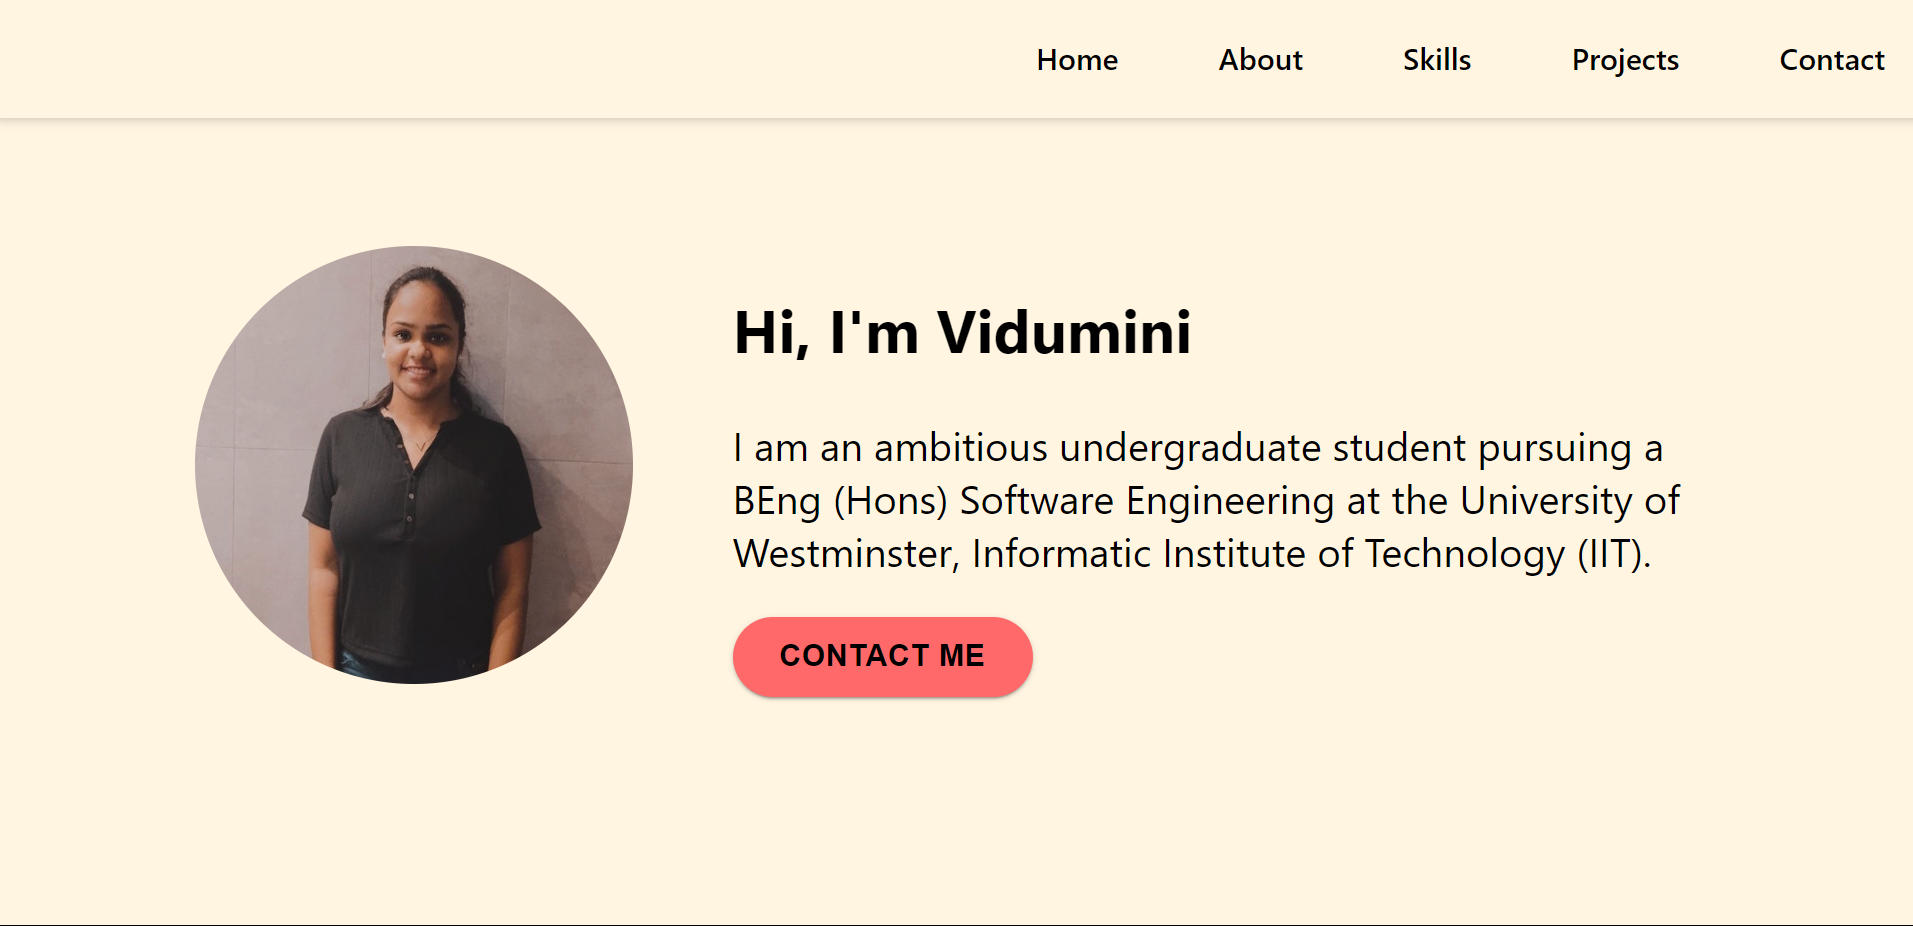
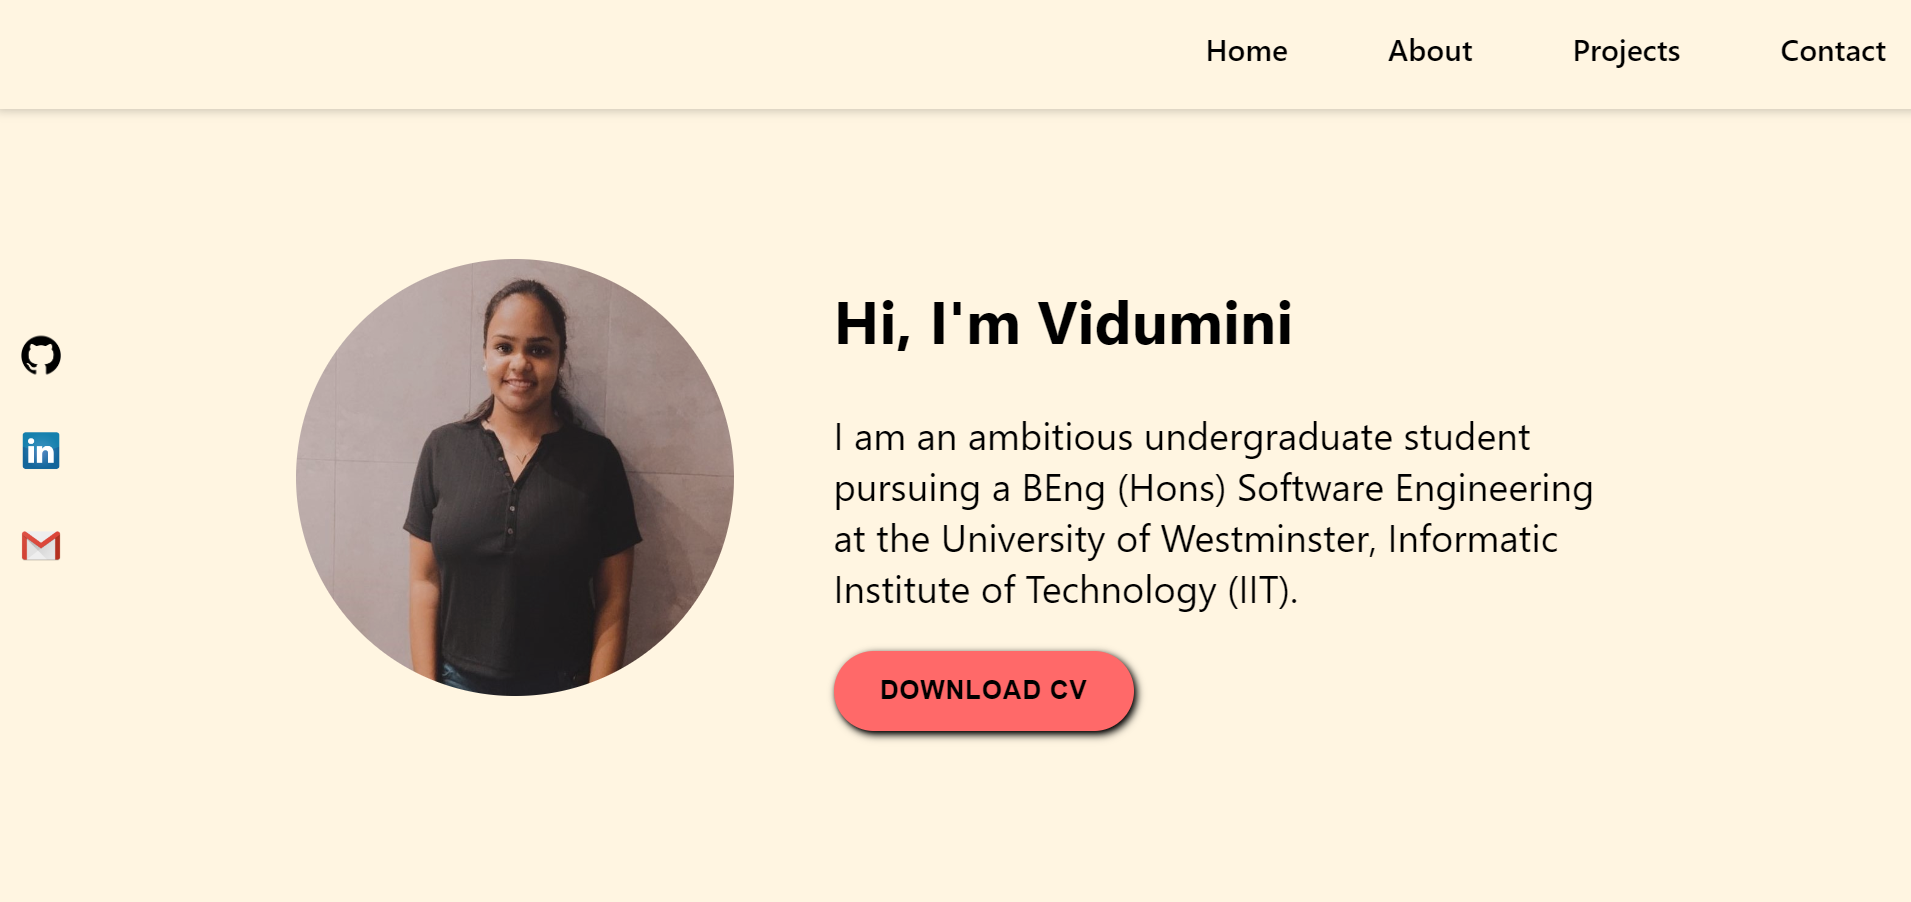
Page changes

diff --git a/src/components/about.js b/src/components/about.js
@@ -9,42 +9,46 @@ function About() {
     <div className="App">
       <div className="container">
         <div className="details">
-          <h1 id="topic">About Me</h1>
-          <div className="container-2">
-            <div className="info-1">
-              <InterestsSharpIcon style={{ fontSize: "3rem" }} />
-              <h1>Eager to Apply Expertise in Practical Projects</h1>
+          <h1 id="topic" style={{ marginBottom: "1.5rem", color: "#55AD9B" }}>
+            About Me
+          </h1>
+          <div className="about-details">
+            <div className="container-2">
+              <div className="info-1">
+                <InterestsSharpIcon style={{ fontSize: "3rem" }} />
+                <h1>Eager to Apply Expertise in Practical Projects</h1>
+              </div>
+              <div className="text">
+                <p>
+                  An ambitious undergraduate software engineering student with a
+                  strong passion in software development and programming eager
+                  to apply their expertise in practical projects.
+                </p>
+              </div>
             </div>
-            <div className="text">
-              <p>
-                An ambitious undergraduate software engineering student with a
-                strong passion in software development and programming eager to
-                apply their expertise in practical projects.
-              </p>
+            <div className="container-2">
+              <div className="info-1">
+                <LanguageSharpIcon style={{ fontSize: "3rem" }} />
+                <h1>Fluent in Multiple Programming Languages</h1>
+              </div>
+              <div className="text">
+                <p>
+                  Gained fluency in HTML, CSS, JS, Python, Java, SQL, React
+                  Native and React JS through projects.
+                </p>
+              </div>
             </div>
-          </div>
-          <div className="container-3">
-            <div className="info-1">
-              <LanguageSharpIcon style={{ fontSize: "3rem" }} />
-              <h1>Fluent in Multiple Programming Languages</h1>
-            </div>
-            <div className="text">
-              <p>
-                Gained fluency in HTML, CSS, JS, Python, Java, SQL, React Native
-                and React JS through projects.
-              </p>
-            </div>
-          </div>
-          <div className="container-4">
-            <div className="info-1">
-              <GroupsSharpIcon style={{ fontSize: "3rem" }} />
-              <h1>Team-Oriented and Challenge-Driven</h1>
-            </div>
-            <div className="text">
-              <p>
-                Enjoys working in groups, seeking challenges and is dedicated to
-                becoming the best software engineer.
-              </p>
+            <div className="container-2">
+              <div className="info-1">
+                <GroupsSharpIcon style={{ fontSize: "3rem" }} />
+                <h1>Team-Oriented and Challenge-Driven</h1>
+              </div>
+              <div className="text">
+                <p>
+                  Enjoys working in groups, seeking challenges and is dedicated
+                  to becoming the best software engineer.
+                </p>
+              </div>
             </div>
           </div>
         </div>

diff --git a/src/components/skills.css b/src/components/skills.css
@@ -1,6 +1,6 @@
 .container-skills {
   flex: 1;
-  margin: 2.5rem 10rem;
+  margin: 2rem;
   display: flex;
   align-items: center;
   justify-content: center;
@@ -15,16 +15,14 @@
   /* border-radius: 2rem; */
   width: 100%;
   padding: 1rem;
-  margin-left: 1rem;
 }
 
 .details-1 #topic {
   font-family: Arial, Helvetica, sans-serif;
   font-size: 2rem;
-  /* padding: 0.5rem; */
+  padding: 0.5px;
   /* margin-bottom: 1rem; */
-  /* margin-top: 0.5rem; */
-  margin: 1rem 45rem 1rem 0;
+  margin-top: 0;
 }
 
 .details-1 .row-1 {
@@ -45,7 +43,7 @@
 
 .details-1 .row-1 .img-container:hover {
   color: #fff;
-  background: linear-gradient(135deg, #C80036 10%, #FFF5E1);
+  background: linear-gradient(135deg, #c80036 10%, #fff5e1);
   opacity: 0.8;
   border-radius: 2rem;
   transform: scale(1.02);
@@ -77,11 +75,17 @@
   margin-left: 1.2rem;
 }
 
-.details-1 .row-1 .img-container #id-css,#id-java,#id-php {
+.details-1 .row-1 .img-container #id-css,
+#id-java {
   margin-left: 1.5rem;
 }
 
-.details-1 .row-1 .img-container #id-python, #id-figma {
+.details-1 .row-1 .img-container #id-express {
+  margin-left: 1rem;
+}
+
+.details-1 .row-1 .img-container #id-python,
+#id-figma {
   margin-left: 1rem;
 }
 
@@ -90,21 +94,21 @@
 }
 
 @media screen and (max-width: 1000px) {
-    .container-skills {
-      margin: 2rem;
-    }
-  
-    .details-1 .row-1 {
-      flex-direction: column;
-      align-items: center;
-    }
-  
-    .details-1 .row-1 .img-container {
-      margin: 1rem 0;
-    }
-  
-    .details-1 .row-1 .img-container p {
-      margin-left: 0;
-      text-align: center;
-    }
+  .container-skills {
+    margin: 2rem;
   }
+
+  .details-1 .row-1 {
+    flex-direction: column;
+    align-items: center;
+  }
+
+  .details-1 .row-1 .img-container {
+    margin: 1rem 0;
+  }
+
+  .details-1 .row-1 .img-container p {
+    margin-left: 0;
+    text-align: center;
+  }
+}

diff --git a/src/components/about.css b/src/components/about.css
@@ -7,24 +7,24 @@
 
 .container {
   flex: 1;
-  margin: 2.5rem 10rem;
+  margin: 1.5rem 10rem;
   display: flex;
   align-items: center;
   justify-content: center;
+  flex-direction: column;
 }
 
 .details {
   display: flex;
   flex-direction: column;
-  align-items: flex-start;
-  justify-content: flex-start;
+  align-items: center;
+  justify-content: center;
   flex-wrap: wrap;
-  border-radius: 2rem;
+  /* border-radius: 2rem; */
   width: 100%;
-  max-width: 80rem;
-  padding: 2rem;
-  /* margin-left: 3rem; */
-  margin: 0.1rem 0 0 3rem;
+  padding: 1rem;
+  /* margin-left: 1rem; */
+  margin: 3rem 2rem;
 }
 
 .details #topic {
@@ -53,22 +53,14 @@
   margin-top: 0;
 }
 
+.about-details{
+  margin-left: 5rem;
+}
+
 .details .container-2 {
   padding: 1rem;
   transition: transform 0.3s;
-  margin-left: 1rem;
-}
-
-.details .container-3 {
-  padding: 1rem;
-  transition: transform 0.3s;
-  margin-left: 4rem;
-}
-
-.details .container-4 {
-  padding: 1rem;
-  transition: transform 0.3s;
-  margin-left: 8rem;
+  margin: 1rem 3.5rem;
 }
 
 .details .container-2:hover {

diff --git a/src/App.js b/src/App.js
@@ -2,7 +2,7 @@ import React from 'react';
 import { BrowserRouter as Router, Route, Routes} from 'react-router-dom';
 import NavBar from './components/navbar';
 import Home from './components/home';
-import About from './components/about';
+import AboutMe from './components/aboutMe';
 import Skills from './components/skills';
 import Contact from './components/contact';
 import Projects from './components/projects';
@@ -14,7 +14,7 @@ function App() {
         <NavBar />
         <Routes>
           <Route path="/" element={<Home />} />
-          <Route path="/about" element={<About />} />
+          <Route path="/aboutme" element={<AboutMe />} />
           <Route path="/skills" element={<Skills />} />
           <Route path="/contact" element={<Contact />} />
           <Route path="/projects" element={<Projects />} />

diff --git a/src/components/skills.js b/src/components/skills.js
@@ -17,7 +17,7 @@ function Skills() {
     <div className="App">
       <div className="container-skills">
         <div className="details-1">
-          <h1 id="topic">Technical Skills</h1>
+          <h1 id="topic" style={{color: "#55AD9B" }}>Technical Skills</h1>
           <div className="row-1">
             <div className="img-container">
               <img src={html} alt="HTML" className="img-1"></img>

diff --git a/src/components/navbar.js b/src/components/navbar.js
@@ -17,8 +17,7 @@ function NavBar() {
         </div> */}
         <nav className={`navbar ${menuOpen ? "show" : ""}`}>
           <Link to="/">Home</Link>
-          <Link to="/about">About</Link>
-          <Link to="/skills">Skills</Link>
+          <Link to="/aboutme">About</Link>
           <Link to="/projects">Projects</Link>
           <Link to="/contact">Contact</Link>
         </nav>

diff --git a/src/components/aboutMe.js b/src/components/aboutMe.js
@@ -1,0 +1,19 @@
+import React from "react";
+import "./about.css";
+import "./skills.css";
+import About from "./about";
+import Skills from "./skills";
+
+function AboutMe() {
+  return (
+    <div>
+      <div className="tab-content">
+        <About />
+        <br/>
+        <Skills />
+      </div>
+    </div>
+  );
+}
+
+export default AboutMe;

diff --git a/src/components/navbar.css b/src/components/navbar.css
@@ -20,7 +20,7 @@ body, html {
   display: flex;
   align-items: center;
   justify-content: space-between;
-  /* box-shadow: 0 1.6px 8px rgba(0, 0, 0, 0.2); */
+  box-shadow: 0 1.6px 8px rgba(0, 0, 0, 0.2);
   z-index: 1000;
   width: 100%;
 }

diff --git a/src/components/home.css b/src/components/home.css
@@ -53,6 +53,7 @@ body, html {
 .text .button {
   background-color: #FF6969;
   color: black;
+  filter: drop-shadow(3px 3px 3px black);
   height: 4rem;
   width: 15rem;
   border-radius: 4rem;

diff --git a/src/components/aboutMe.css b/src/components/aboutMe.css
@@ -1,0 +1,8 @@
+.container {
+    flex: 1;
+    margin: 2.5rem 10rem;
+    display: flex;
+    align-items: center;
+    justify-content: center;
+    flex-direction: column;
+  }
